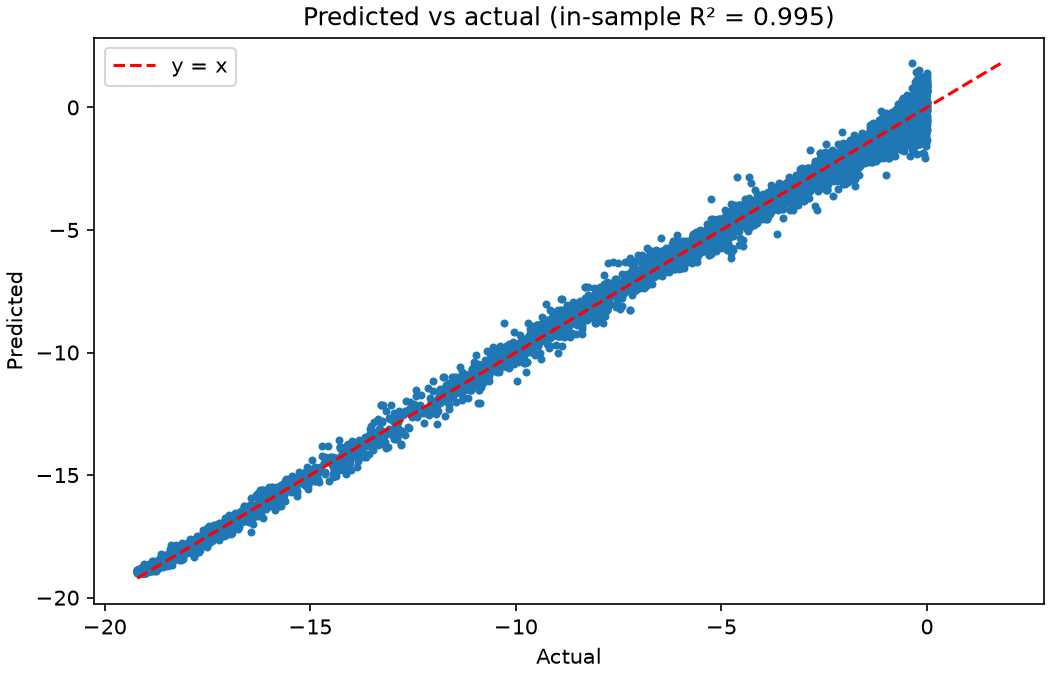
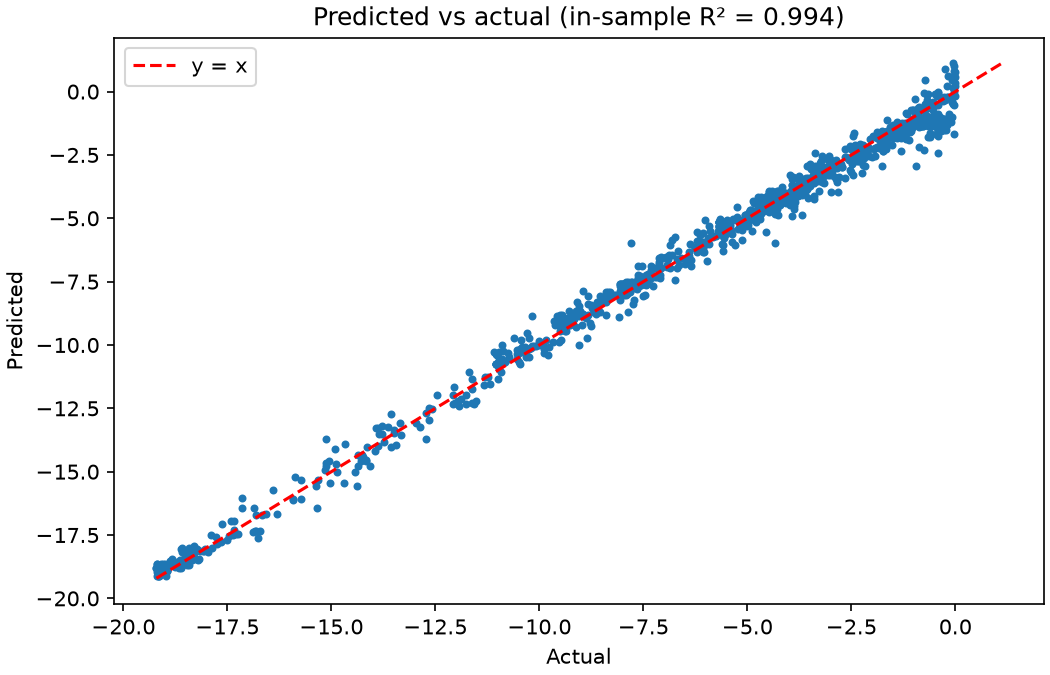
Spec 014 task 4: README 'How a child is made', specs and CHANGELOG, regenerated images
README parameter rows and the three-step description come verbatim from
spec 014. Specs 003/005/007/011 use the new names and defaults. Images are
regenerated from the quickstart, whose run changes with mutation_rate 0.05.

diff --git a/specs/014-operator-parameters.md b/specs/014-operator-parameters.md
@@ -1,6 +1,6 @@
 # 014 — Operator Parameters: Explicit and Standard
 
-**Status:** proposed · **Severity:** 🟠 high (API + correctness of documentation) ·
+**Status:** implemented (2026-10-16) · **Severity:** 🟠 high (API + correctness of documentation) ·
 **Depends on:** 003, 005 · **Pairs with:** 015 (benchmarks) · **Release:** before 2.0.0 is published
 
 Three changes requested by the owner (2026-10-16), each a separate section with its own
@@ -29,10 +29,10 @@ It also costs more than it gives:
   row becomes `start_number_of_population` → *deleted; use `population_size`*.
 
 ### Acceptance criteria
-- [ ] `GeneticAlgorithm(f, env, initial_population_size=10)` raises `TypeError`.
-- [ ] Every generation in `history` has exactly `population_size` rows (existing H-1 test, now
+- [x] `GeneticAlgorithm(f, env, initial_population_size=10)` raises `TypeError`.
+- [x] Every generation in `history` has exactly `population_size` rows (existing H-1 test, now
       without exceptions).
-- [ ] No mention of `initial_population_size` remains in `geneopt/`, README, CHANGELOG or specs,
+- [x] No mention of `initial_population_size` remains in `geneopt/`, README, CHANGELOG or specs,
       except 011's removal row and this spec.
 
 ---
@@ -60,11 +60,11 @@ earlier "required, no default" decision.
 - The benchmark adapter (015) passes its value explicitly and discloses it.
 
 ### Acceptance criteria
-- [ ] Omitting `mutation_rate` gives a measured per-gene mutation frequency of 0.05 ± 10%, for
+- [x] Omitting `mutation_rate` gives a measured per-gene mutation frequency of 0.05 ± 10%, for
       both a 2-parameter and a 50-parameter environment.
-- [ ] `mutation_rate=None` raises `ValueError` naming the parameter, so no implicit formula is left.
-- [ ] No mention of `1/n_params` as a mutation default remains in `geneopt/`, README or spec 003.
-- [ ] `test_E_3_*` asserts that the configured rate is used unchanged during the run.
+- [x] `mutation_rate=None` raises `ValueError` naming the parameter, so no implicit formula is left.
+- [x] No mention of `1/n_params` as a mutation default remains in `geneopt/`, README or spec 003.
+- [x] `test_E_3_*` asserts that the configured rate is used unchanged during the run.
 
 ---
 
@@ -114,13 +114,13 @@ and tests change.
 `crossover_probability` keeps its default of **0.9**. It isn't required.
 
 ### Acceptance criteria
-- [ ] `crossover_rate` raises `TypeError`; `crossover_probability` is accepted and validated.
-- [ ] A statistical test with p_c = 1 and parents A = 0…, B = 1…: each child gene comes from A with
+- [x] `crossover_rate` raises `TypeError`; `crossover_probability` is accepted and validated.
+- [x] A statistical test with p_c = 1 and parents A = 0…, B = 1…: each child gene comes from A with
       frequency 0.5 ± 0.02, and child 2 is always the complement of child 1.
-- [ ] A statistical test with long genomes: the fraction of pairs that recombine is p_c ± 0.03, for
+- [x] A statistical test with long genomes: the fraction of pairs that recombine is p_c ± 0.03, for
       p_c ∈ {0.3, 0.9}.
-- [ ] With p_c = 0, children equal their parents before mutation.
-- [ ] The README rows below replace the current `crossover_rate` and `mutation_rate` rows word
+- [x] With p_c = 0, children equal their parents before mutation.
+- [x] The README rows below replace the current `crossover_rate` and `mutation_rate` rows word
       for word, and the `initial_population_size` row is deleted (A). Any wording that mixes p_c
       and p_s (grep for "pair of parents performs") is gone.
 
@@ -145,7 +145,8 @@ Paragraph under the table, headed **How a child is made**:
 > 3. **Mutate** every gene of both children with probability `mutation_rate`.
 >
 > With the default 0.05, a child with 20 parameters gets one mutation on average, and one with
-> 100 parameters gets five. For many parameters, try 1 / (number of parameters).
+> 100 parameters gets five. For about one mutation per child instead, use
+> 1 / (number of parameters).
 
 ---
 

diff --git a/specs/003-encoding-and-operators.md b/specs/003-encoding-and-operators.md
@@ -59,14 +59,16 @@ decode = lambda g: {k: env[k][i] for k, i in zip(keys, g)}
 init   = rng.integers(0, sizes, size=(pop, n_params))   # uniform, no bias (E-1 gone)
 ```
 
-- **Crossover: uniform crossover**, the textbook operator for gene vectors. A pair of parents
-  crosses with probability `crossover_rate`; a crossing pair exchanges each gene with p = 1/2.
+- **Crossover: uniform crossover** (Syswerda 1989), the textbook operator for gene vectors. A
+  pair of parents recombines with probability p_c = `crossover_probability` (default 0.9);
+  otherwise the children are copies. In a recombining pair a fair coin (p_s = 1/2, fixed) decides
+  for each gene which parent child 1 takes it from, and child 2 takes the other (014 C).
   It doesn't depend on parameter order, which matters because parameters are named, not
   positioned. Vectorised as a boolean mask.
 - **Mutation: random resetting**, the textbook operator for integer and categorical genes. Each
   gene, with probability `mutation_rate` (one gate, which fixes E-2), takes a uniformly chosen
-  *other* value. `mutation_rate` defaults to **1/n_params**, so each child gets one mutation on
-  average (the standard 1/L rule).
+  *other* value. `mutation_rate` defaults to **0.05**, a plain number with no formula behind it
+  (014 B). 1/n_params gives one mutation per child on average, and is the user's to choose.
 
 > **History (spec 012):** the first 2.0 build used a 1/n_params swap rate, creep steps for
 > ordered numeric parameters and an adaptive mutation rate. The competitor benchmark found
@@ -140,8 +142,8 @@ releases is investigated, but it doesn't block a release on its own. Model-based
 - [ ] 8,000 random initial genes over 5 values: each value 1,600 ± 150.
 - [x] Measured per-gene mutation frequency ≈ `mutation_rate` (±10%). A mutated gene always takes a
       different, in-range value.
-- [x] `mutation_rate` defaults to 1/n_params and doesn't change during a run.
-- [x] Uniform crossover swaps about 50% of the genes of crossing pairs, and none at `crossover_rate=0`.
+- [x] `mutation_rate` defaults to 0.05 (014; first 2.0 build: 1/n_params) and doesn't change during a run.
+- [x] Uniform crossover swaps about 50% of the genes of crossing pairs, and none at `crossover_probability=0`.
 - [ ] Tournament with `k > pop` logs nothing and returns a valid index.
 - [ ] With `elitism ≥ 1`, best-of-population is monotonic across generations.
 - [ ] `early_stopping_rounds=3` stops exactly 3 generations after the last improvement.

diff --git a/README.md b/README.md
@@ -138,8 +138,8 @@ if __name__ == "__main__":
 | `maximize` | `True` | `False` to minimise |
 | `population_size` | `100` | individuals per generation |
 | `generations` | `100` | maximum number of generations |
-| `crossover_rate` | `0.9` | probability that a pair of parents performs uniform crossover (each gene swapped with p = 0.5) |
-| `mutation_rate` | `1/n_params` | per-gene probability of resetting to a random other value; the default gives one mutation per child on average |
+| `crossover_probability` | `0.9` | chance that two selected parents recombine. If they don't, the children start as copies of the parents. |
+| `mutation_rate` | `0.05` | chance, for each gene of each child, that the gene is replaced by a different random value from its list. |
 | `tournament_size` | `3` | candidates per tournament selection |
 | `elitism` | `1` | best distinct genomes copied unchanged into the next generation |
 | `early_stopping_rounds` | `None` | stop after this many generations without improvement |
@@ -152,6 +152,19 @@ if __name__ == "__main__":
 | `seed` | `0` | random seed; the same seed gives the same run with or without an executor |
 
 Everything after `environment` is keyword-only.
+
+**How a child is made**
+
+1. **Select** two parents, each the winner of a tournament of `tournament_size` random
+   individuals.
+2. **Recombine** with probability `crossover_probability`: for every gene separately, a fair
+   coin decides which parent child 1 takes it from, and child 2 takes it from the other parent.
+   The coin is always fair (50/50) so neither parent is favoured; this isn't a setting.
+3. **Mutate** every gene of both children with probability `mutation_rate`.
+
+With the default 0.05, a child with 20 parameters gets one mutation on average, and one with
+100 parameters gets five. For about one mutation per child instead, use
+1 / (number of parameters).
 
 ## Caching
 

diff --git a/specs/005-public-api-and-logging.md b/specs/005-public-api-and-logging.md
@@ -35,10 +35,9 @@ GeneticAlgorithm(
     optimizer_name: str = "geneopt",
     maximize: bool = True,                           # replaces comparison_type enum
     population_size: int = 100,
-    initial_population_size: int | None = None,      # None → population_size
     generations: int = 100,
-    crossover_rate: float = 0.9,
-    mutation_rate: float | None = None,             # None → 1/n_params (003)
+    crossover_probability: float = 0.9,              # p_c of uniform crossover (003, 014)
+    mutation_rate: float = 0.05,                     # per gene, per child (003, 014)
     tournament_size: int = 3,
     elitism: int = 1,
     early_stopping_rounds: int | None = None,
@@ -65,7 +64,7 @@ All checks raise `ValueError`/`TypeError` with the parameter name and the offend
 | Check | Rule |
 |---|---|
 | environment | non-empty mapping. Every value is a non-empty sequence (not a str). Keys are `str.isidentifier()` because they're passed as `**kwargs` |
-| rates | `0 ≤ crossover_rate, mutation_rate ≤ 1` |
+| rates | `0 ≤ crossover_probability, mutation_rate ≤ 1` |
 | sizes | `population_size ≥ 2`, `tournament_size ≥ 1`, `0 ≤ elitism < population_size` |
 | generations | `≥ 1` |
 | objective | `callable`. Optionally, `inspect.signature(fn).bind(**first_params)` is tried once, so a misspelled parameter name fails **before** generation 0 |

diff --git a/CHANGELOG.md b/CHANGELOG.md
@@ -13,8 +13,10 @@ The bugs fixed are listed in [specs/README.md](specs/README.md).
 - Package renamed to `geneopt`, with a keyword-only API. `start()` returns a `Result`.
 - Genomes are integer value indices, not bit strings. Initial sampling is uniform, mutation is a
   single per-gene probability. The standard operators are used: tournament selection (exactly `k`
-  candidates) with elitism, uniform crossover, and random-resetting mutation at 1/n_params by
-  default.
+  candidates) with elitism, uniform crossover (`crossover_probability`, default 0.9, fair 50/50
+  gene mixing), and random-resetting mutation (`mutation_rate`, default 0.05).
+- `start_number_of_population` is removed without a replacement: every generation has
+  `population_size` individuals.
 - Cache keyed by exact gene indices, persisted as append-only JSONL named by a fingerprint of the
   environment and objective code. Stale or wrong cache hits are no longer possible.
 - One evaluation loop: per-generation dedupe, any `concurrent.futures` executor, `on_error` policy.

diff --git a/tasks/plan.md b/tasks/plan.md
@@ -26,11 +26,11 @@ plus a fixed p_s = 0.5.
 - [x] Task 1: Remove `initial_population_size` (014 A)
 - [x] Task 2: `mutation_rate` default 0.05, `None` rejected (014 B)
 - [x] Task 3: `crossover_rate` → `crossover_probability`, statistical crossover tests (014 C)
-- [ ] Task 4: README "How a child is made", specs 003/005/007/011, CHANGELOG, regenerate images
+- [x] Task 4: README "How a child is made", specs 003/005/007/011, CHANGELOG, regenerate images
 
 ### Checkpoint
-- [ ] `pytest -q` (all markers), `ruff check . && ruff format --check . && mypy`, coverage gate
-- [ ] 014's acceptance boxes ticked; grep shows no `initial_population_size`, `crossover_rate`,
+- [x] `pytest -q` (all markers), `ruff check . && ruff format --check . && mypy`, coverage gate
+- [x] 014's acceptance boxes ticked; grep shows no `initial_population_size`, `crossover_rate`,
       `1/n_params`-as-default or "pair of parents performs" outside 011's removal rows and 012/014
 - [ ] Pushed; CI green on PR #1
 

diff --git a/tasks/todo.md b/tasks/todo.md
@@ -39,9 +39,9 @@ Tests: `python -m pytest -q` · Lint: `ruff check . && ruff format --check . && 
 ## Task 4: Docs
 **Description:** README rows and "How a child is made" from 014 verbatim; specs 003, 005, 007, 011 and CHANGELOG updated; README images regenerated from the quickstart.
 **Acceptance criteria:**
-- [ ] README matches 014 § README text; README-embed and image tests pass
-- [ ] Grep check from the plan checkpoint is clean
-- [ ] 014 status → implemented, acceptance boxes ticked; specs/README map updated
+- [x] README matches 014 § README text; README-embed and image tests pass
+- [x] Grep check from the plan checkpoint is clean
+- [x] 014 status → implemented, acceptance boxes ticked; specs/README map updated
 **Verification:** `pytest -q`, lint, grep
 **Dependencies:** Task 3
 **Files:** `README.md`, `CHANGELOG.md`, `specs/003*.md`, `specs/005*.md`, `specs/007*.md`, `specs/011*.md`, `specs/014*.md`, `specs/README.md`, `docs/images/*.png`

diff --git a/specs/007-tests-and-ci.md b/specs/007-tests-and-ci.md
@@ -147,7 +147,7 @@ Seeds: 30 · budget scale: 1 · Python 3.12.14 · GeneOpt 2.0.0, pygad 3.8.1, de
 **Reading the results:**
 - **Gate passes.** GeneOpt beats random search on all three problems.
 - **GeneOpt uses the standard operators** (003): uniform crossover and random-resetting
-  mutation at 1/n_params, with tournament selection and elitism. The other six rows are identical
+  mutation at 1/n_params (the default at the time; 014 made it 0.05), with tournament selection and elitism. The other six rows are identical
   to the first run (same seeds and versions), so the comparison is like-for-like.
 - **Categorical:** GeneOpt ties for 1st with DEAP, pymoo and Optuna, at a 100% hit rate.
 - **Rastrigin: 3rd** (median 3.59), behind pymoo (0) and DEAP (0.64). That's 43% better than the

diff --git a/specs/README.md b/specs/README.md
@@ -95,7 +95,7 @@ behaviour, so it ships with benchmark numbers against other optimisation librari
 
 | Item | Where | Notes |
 |---|---|---|
-| Operator parameter cleanup | [014](014-operator-parameters.md) | Next stage. Lands before 2.0.0 is published |
+| Operator parameter cleanup | [014](014-operator-parameters.md) | Done. 015 runs next, at the new defaults |
 | Fair benchmark suite | [015](015-fair-benchmark-suite.md) | Next stage. Replaces the 007 problems, which favoured separable-problem specialists. Prototype: GeneOpt 3rd of 7 |
 | Benchmark figures | [016](016-benchmark-plots.md) | Approved. Built after 015 |
 | Local refinement (fine-tuning near an optimum) | [012](012-crossover-mixing.md) | To be judged on the 015 suite, not the old Rastrigin/Holder problems |

diff --git a/specs/011-removed-in-2.0.md b/specs/011-removed-in-2.0.md
@@ -41,11 +41,11 @@ run that seems to work. The library is small, and keeping the shims would roughl
 
 | 1.x parameter | 2.0.0 |
 |---|---|
-| `start_number_of_population` | `initial_population_size` (optional, defaults to `population_size`) |
+| `start_number_of_population` | *deleted; use `population_size`* (014) |
 | `number_of_population` | `population_size` |
 | `number_of_generations` | `generations` |
 | `comparison_type=GeneticAlgorithmComparisonType.maximize/minimize` | `maximize=True/False` |
-| `r_cross` | `crossover_rate` |
+| `r_cross` | `crossover_probability` |
 | `tournament_selection_number` | `tournament_size` |
 | `cache_type=GeneticAlgorithmCacheType.Ram` | `cache_dir=None` |
 | `cache_type=GeneticAlgorithmCacheType.HardDisk` | `cache_dir="./cache"` |
